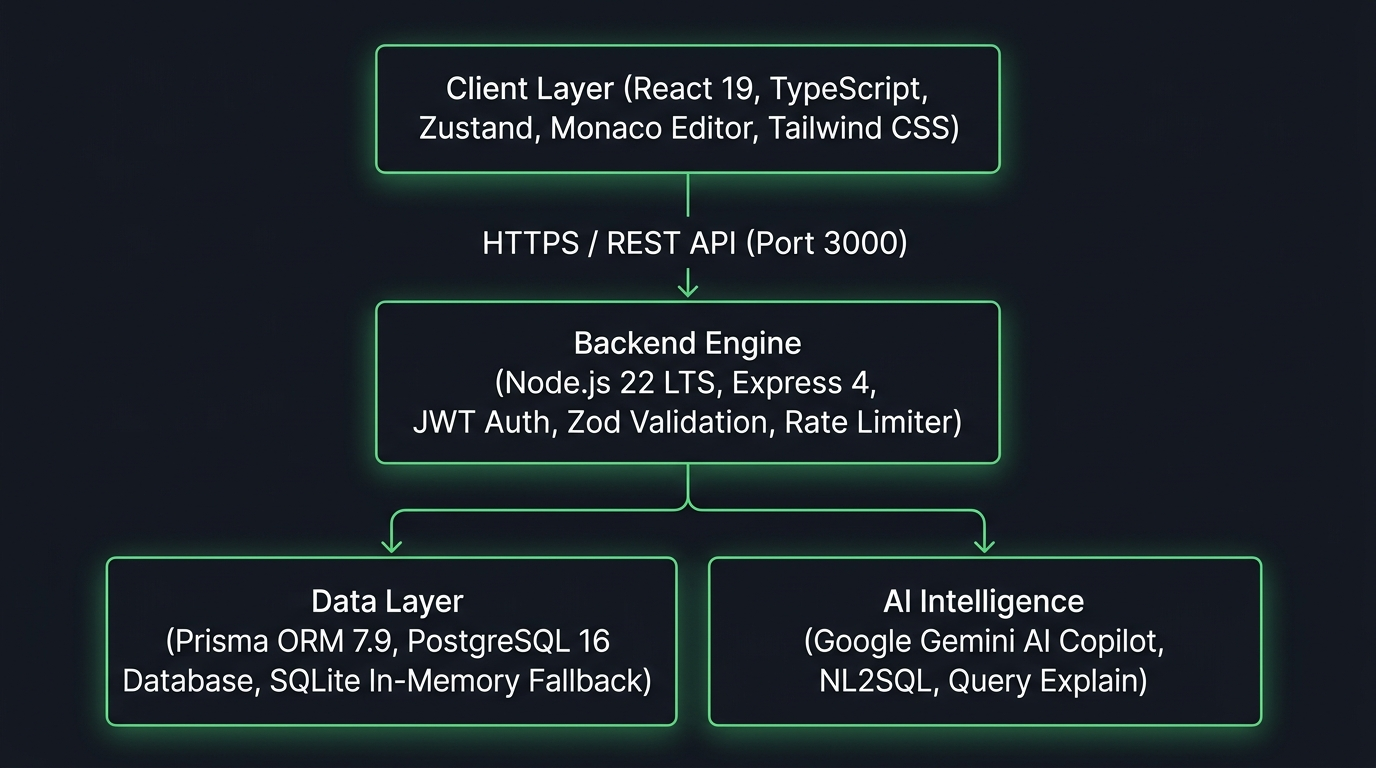
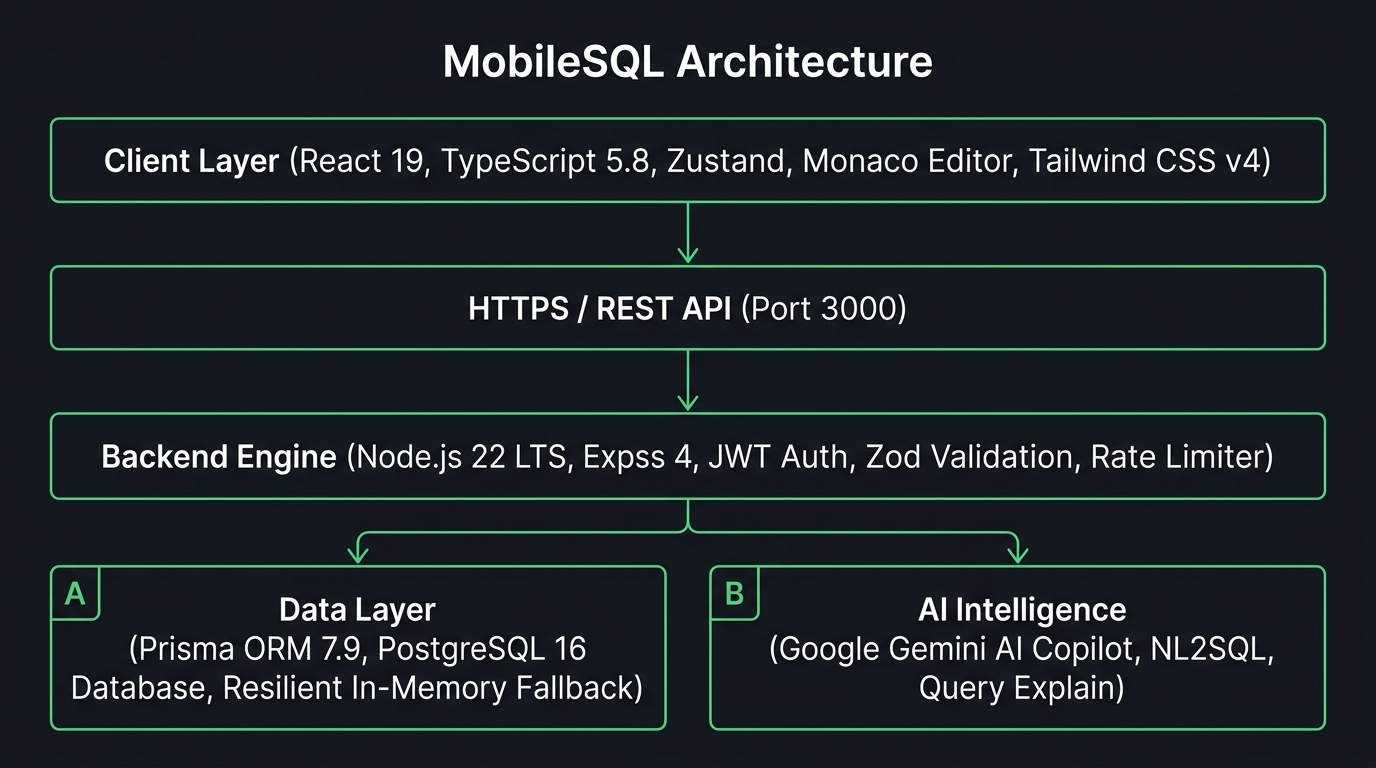
chore: add database scripts and refine HMR config
- Add `db:migrate` and `db:seed` scripts to package.json
- Configure HMR settings to respect `DISABLE_HMR` env var in Vite
- Update README terminology for database fallback

Changed region(s): [[0.0312, 0.0312, 0.9688, 0.9688]]

diff --git a/server.ts b/server.ts
@@ -136,8 +136,13 @@ Format response in JSON with:
   // 6. Vite Dev Server Integration vs Production Static File Serving
   if (process.env.NODE_ENV !== 'production') {
     const { createServer: createViteServer } = await import('vite');
+    const isHmrDisabled = process.env.DISABLE_HMR === 'true';
     const vite = await createViteServer({
-      server: { middlewareMode: true },
+      server: {
+        middlewareMode: true,
+        hmr: isHmrDisabled ? false : undefined,
+        watch: isHmrDisabled ? null : {},
+      },
       appType: 'spa',
     });
     app.use(vite.middlewares);

diff --git a/vite.config.ts b/vite.config.ts
@@ -28,8 +28,8 @@ export default defineConfig(() => {
     },
     server: {
       // HMR is disabled in AI Studio via DISABLE_HMR env var.
-      hmr: process.env.DISABLE_HMR !== 'true',
-      watch: process.env.DISABLE_HMR === 'true' ? null : {},
+      hmr: process.env.DISABLE_HMR === 'true' ? false : undefined,
+      watch: process.env.DISABLE_HMR === 'true' ? null : undefined,
     },
   };
 });

diff --git a/README.md b/README.md
@@ -53,7 +53,7 @@ Custom metric dashboards, query-to-chart rendering (Area, Bar, Line, Pie), visua
 |---|---|
 | **Frontend** | React 19, TypeScript 5.8, Tailwind CSS v4, Monaco Editor (`@monaco-editor/react`), Zustand 5, TanStack React Query 5, Motion |
 | **Backend** | Node.js 22 LTS, Express 4, esbuild, Zod validation |
-| **Database & ORM** | Prisma ORM 7.9, PostgreSQL 16 (optional), SQLite WASM In-Memory Fallback |
+| **Database & ORM** | Prisma ORM 7.9, PostgreSQL 16 (optional), Resilient In-Memory Fallback |
 | **AI Integration** | Google GenAI SDK (`@google/genai` with Gemini models) |
 | **Testing & Quality** | Vitest 4, Happy-DOM, TypeScript Compiler (`tsc`), Prisma CLI |
 | **DevOps & Containers** | Docker (multi-stage `node:22-alpine`), Docker Compose, GitHub Actions CI/CD |
